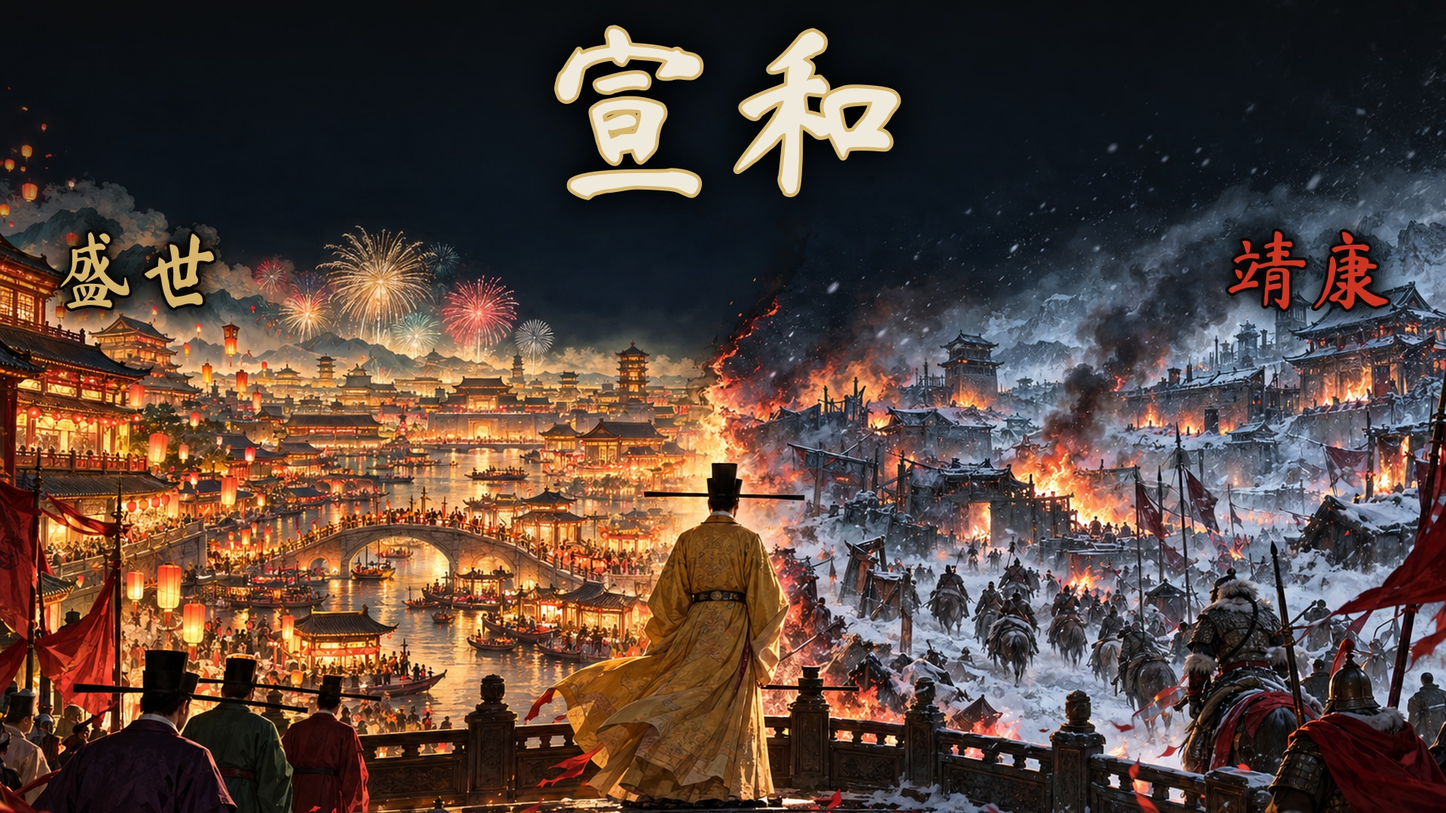
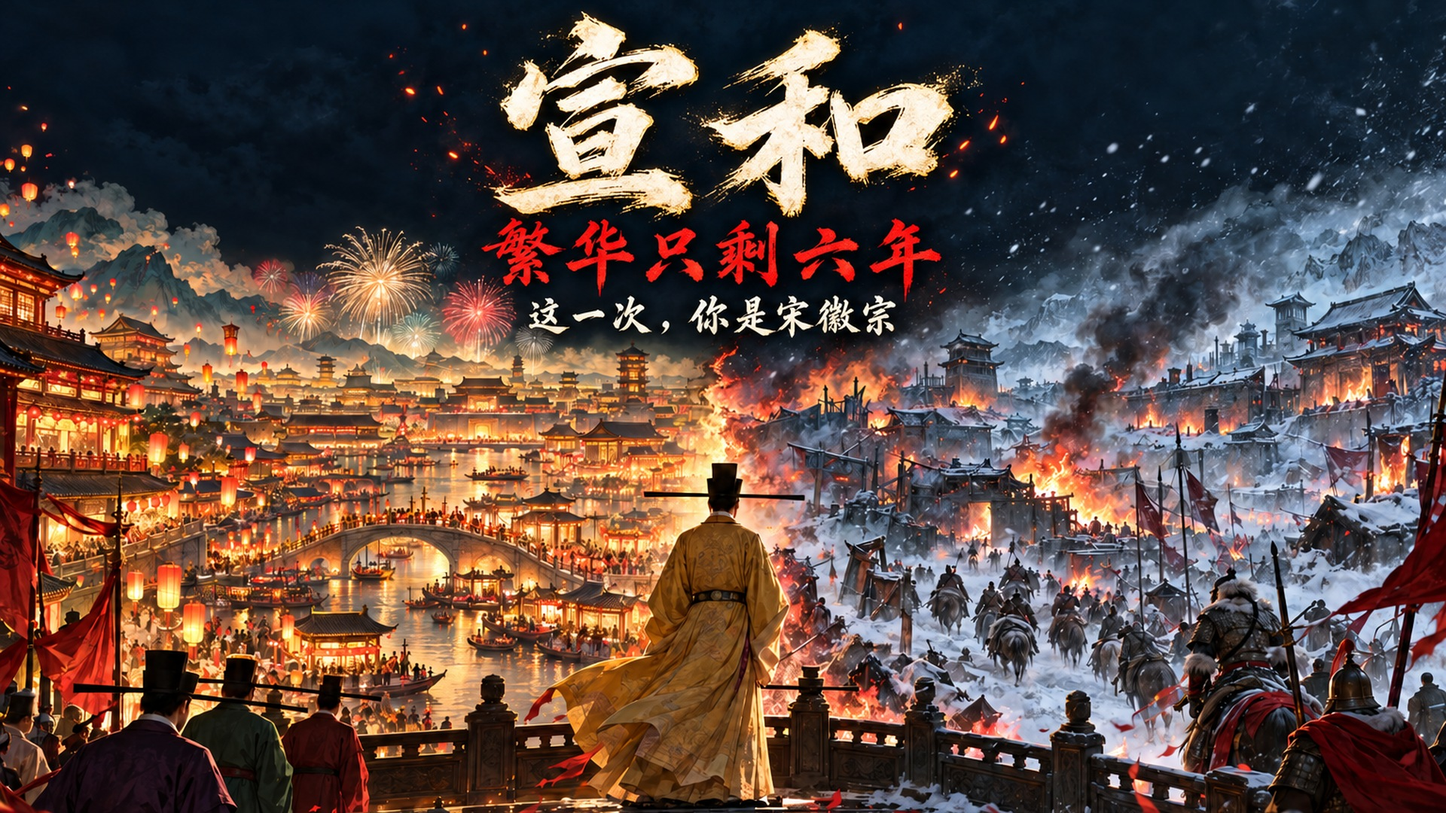
promo: covers with the title calligraphy drawn by the image model (client's choice); earlier typeset covers kept under cover/typeset

diff --git a/videos/xuanhe-promo/art/cover_text.py b/videos/xuanhe-promo/art/cover_text.py
@@ -1,0 +1,66 @@
+# -*- coding: utf-8 -*-
+"""Covers with the title calligraphy drawn by the image model itself (client's choice). 2 parallel codex runs.
+Usage: python cover_text.py [ids...]   (outputs art/out/<id>.png; skips existing unless --force)"""
+import os, subprocess, sys, time
+from concurrent.futures import ThreadPoolExecutor
+
+HERE = os.path.dirname(os.path.abspath(__file__))
+OUT = os.path.join(HERE, "out")
+CODEX = r"C:\Users\yiyin\AppData\Roaming\npm\node_modules\@openai\codex\bin\codex.js"
+
+TEXT = ("Include exactly this Chinese title text, correctly written in Simplified Chinese, as part of the poster design: "
+        "(1) the huge main title 宣和 (two characters: 宣 then 和) in bold, powerful Chinese brush calligraphy (xingkai style, "
+        "thick dry-brush strokes), ivory white with a thin gold edge and a soft dark glow, very large; "
+        "(2) under it, the line 繁华只剩六年 (six characters: 繁 华 只 剩 六 年) in vermilion-red brush calligraphy, about a third of the title's height; "
+        "(3) under that, the line 这一次，你是宋徽宗 (这 一 次 ， 你 是 宋 徽 宗) in smaller white brush script. "
+        "Every character must be correct and legible; no other text, letters, numbers, seals or watermarks anywhere. ")
+COSTUME = ("Authentic Northern Song costume: the emperor wears a pale ochre-yellow round-collar robe and a black futou hat with long straight "
+           "horizontal wings; Jurchen cavalry with fur trims, braided queues and iron lamellar armour; no dragons, no Ming/Qing costume. ")
+STYLE = ("Epic cinematic Chinese historical war movie poster / video thumbnail, 16:9 composition inside a landscape frame, dramatic fire and "
+         "snow lighting, high contrast, painterly but highly detailed, hot-blooded and gripping. ")
+
+JOBS = {
+  "ctext_a1": dict(ref="cover_a.png", prompt="Use the attached image as the base picture and keep its composition (Emperor Huizong close-up on the right, burning capital and charging Jurchen cavalry behind). Place the title text on the dark smoky left side. "),
+  "ctext_a2": dict(ref="cover_a.png", prompt="Use the attached image as the base picture and keep its composition (Emperor Huizong close-up on the right, burning capital and charging Jurchen cavalry behind). Place the title text on the dark smoky left side. "),
+  "ctext_b1": dict(ref="cover_b.png", prompt="Use the attached image as the base picture and keep its composition (golden Lantern Festival city on the left, the same city burning in snow on the right, the emperor seen from behind on the seam). Place the main title centered in the dark sky at the top, the two lines beneath it. "),
+  "ctext_n1": dict(ref=None, prompt="New composition: Emperor Huizong in a dramatic half-figure close-up on the right third, staring into the camera with cold resolve, his face half lit by fire; behind him Kaifeng burns at night in falling snow and Jurchen iron cavalry charges out of the smoke. Dark smoky space on the left holds the title text. "),
+}
+
+
+def log(m):
+    print(time.strftime("%H:%M:%S ") + m, flush=True)
+
+
+def run(jid, force=False):
+    job = JOBS[jid]
+    png = os.path.join(OUT, jid + ".png")
+    if os.path.exists(png) and not force:
+        log("SKIP " + jid); return jid, True
+    prompt = STYLE + job["prompt"] + COSTUME + TEXT + "Landscape 3:2 aspect ratio (1536x1024)."
+    open(os.path.join(HERE, jid + ".txt"), "w", encoding="utf8", newline="\n").write(prompt + "\n")
+    cmd = (f"Use your image generation tool to create ONE image: {prompt} After generating, copy the resulting PNG into the "
+           f"current working directory as {jid}.png and print its absolute path and pixel size. Do not do anything else.")
+    args = ["node", CODEX, "exec", "--skip-git-repo-check", "--json", "-C", OUT, "-s", "workspace-write", "-c", 'windows.sandbox="unelevated"']
+    if job["ref"]:
+        args[3:3] = ["-i", os.path.join(OUT, job["ref"])]
+        cmd = "The attached image is the base picture to work from. " + cmd
+    args.append(cmd)
+    for attempt in (1, 2):
+        t0 = time.time()
+        with open(os.path.join(OUT, jid + ".jsonl"), "w", encoding="utf8") as so, open(os.path.join(OUT, jid + ".err"), "w", encoding="utf8") as se:
+            try:
+                subprocess.run(args, stdout=so, stderr=se, timeout=480, stdin=subprocess.DEVNULL)
+            except subprocess.TimeoutExpired:
+                log(f"TIMEOUT {jid} attempt {attempt}")
+        if os.path.exists(png):
+            log(f"OK   {jid} {time.time()-t0:.0f}s attempt {attempt}"); return jid, True
+        log(f"MISS {jid} attempt {attempt}")
+    return jid, False
+
+
+if __name__ == "__main__":
+    force = "--force" in sys.argv
+    ids = [a for a in sys.argv[1:] if not a.startswith("--")] or list(JOBS)
+    with ThreadPoolExecutor(2) as ex:
+        res = list(ex.map(lambda i: run(i, force), ids))
+    log("DONE " + str(res))
